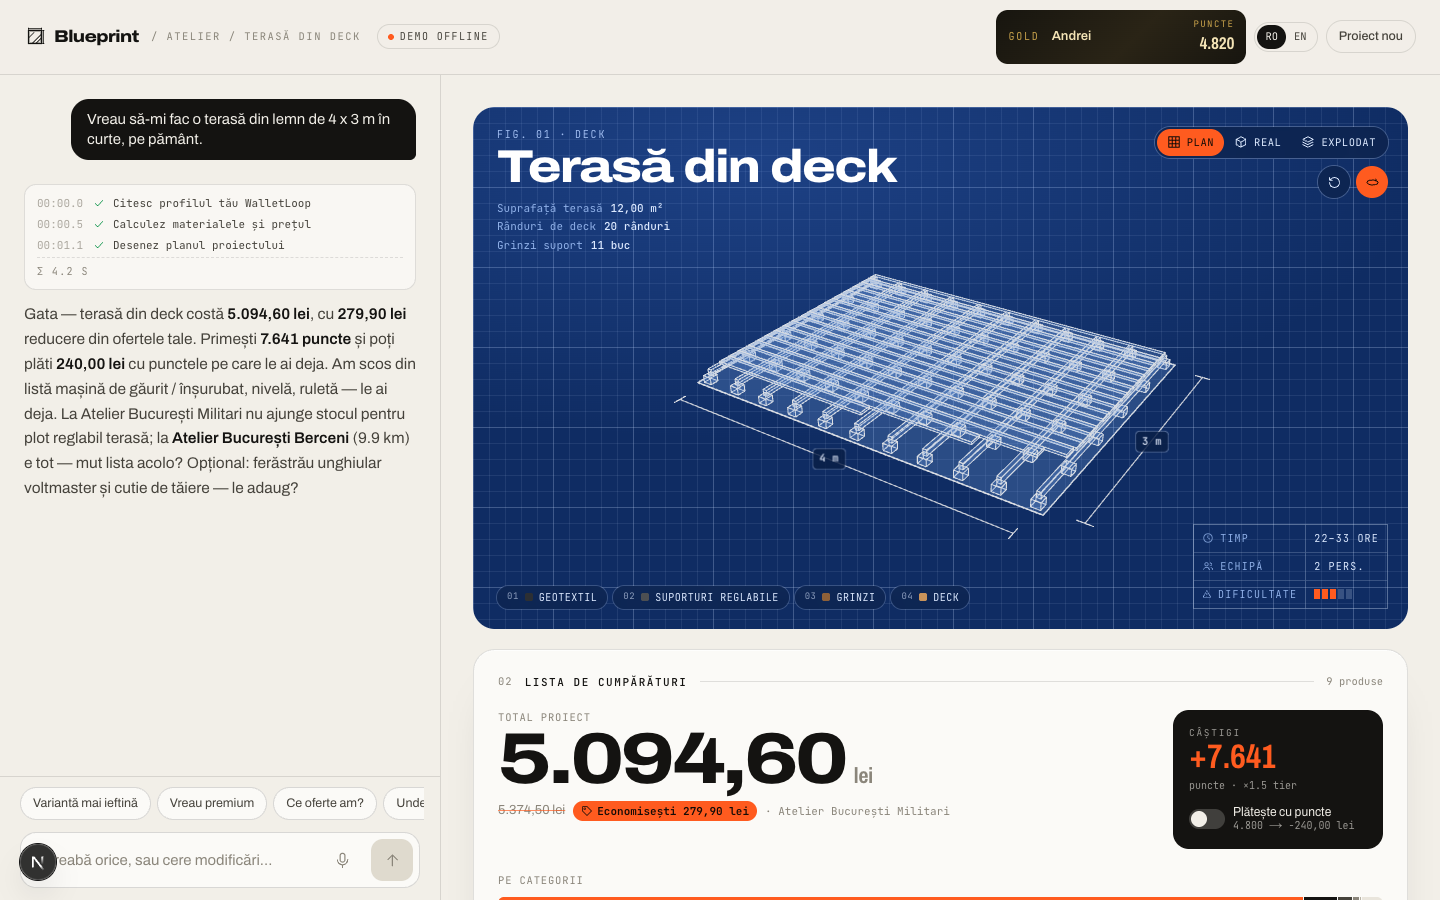
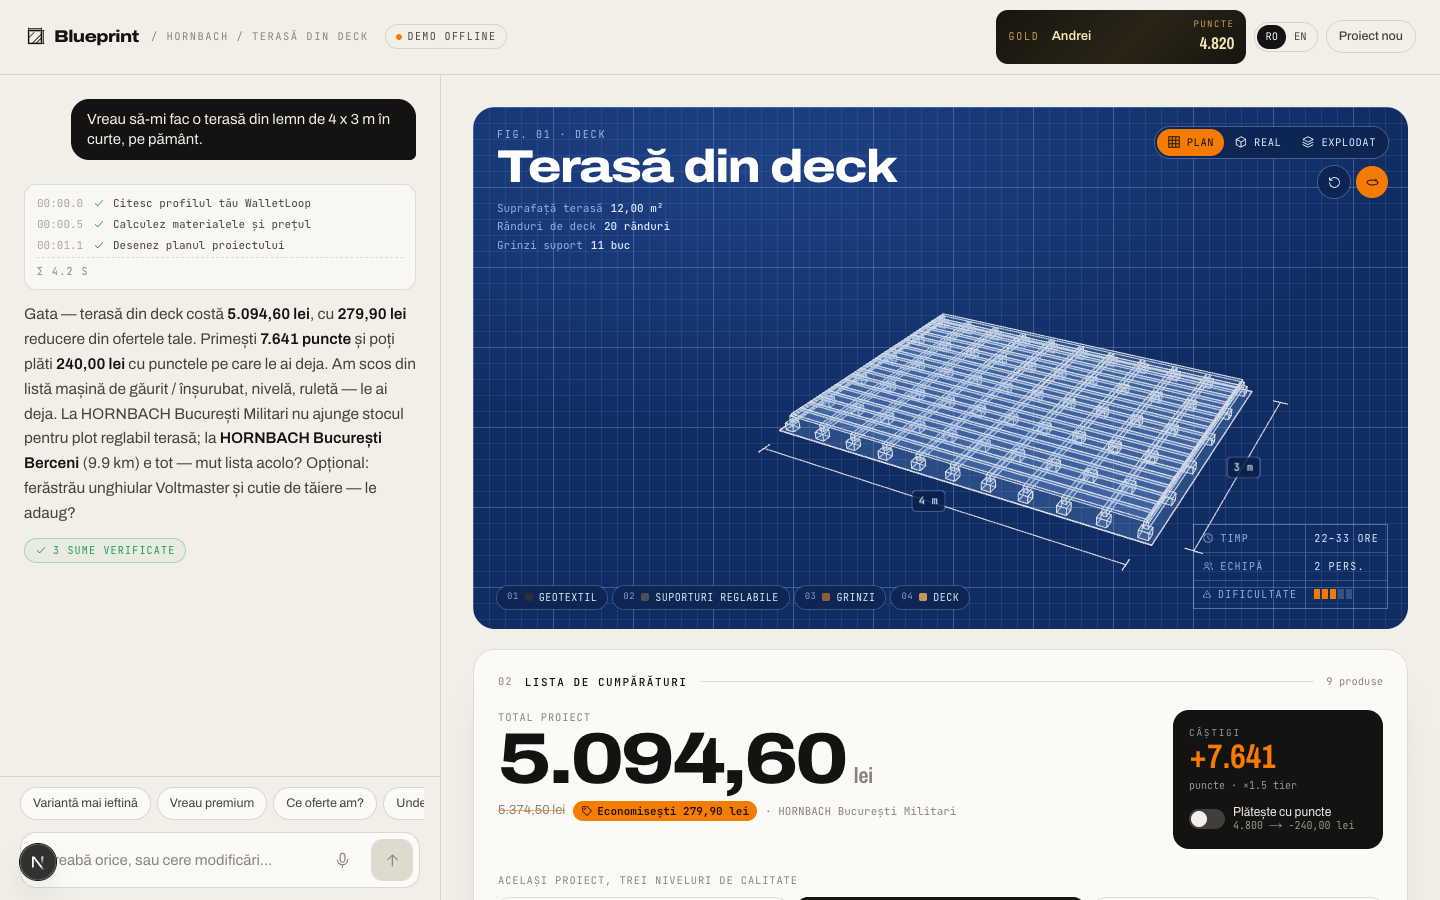
Refresh README screenshots (HORNBACH theme, stock/offers, wallet route, weather)

diff --git a/README.md b/README.md
@@ -17,6 +17,10 @@ white-label: the same build demos as a neutral retailer ("Atelier"), as HORNBACH
 | ![Board](docs/screenshots/02-board.png) | ![List](docs/screenshots/03-list.png) |
 | **Exploded 3D view** | **Plan, tips & safety** |
 | ![Exploded](docs/screenshots/04-exploded.png) | ![Plan](docs/screenshots/05-plan.png) |
+| **Stock map & WalletLoop offers** | **List on the wallet pass, sorted by aisle** |
+| ![Stock](docs/screenshots/07-stock-offers.png) | ![Wallet](docs/screenshots/08-wallet.png) |
+| **Best days to build (live forecast)** | |
+| ![Weather](docs/screenshots/06-weather.png) | |
 
 ---
 
